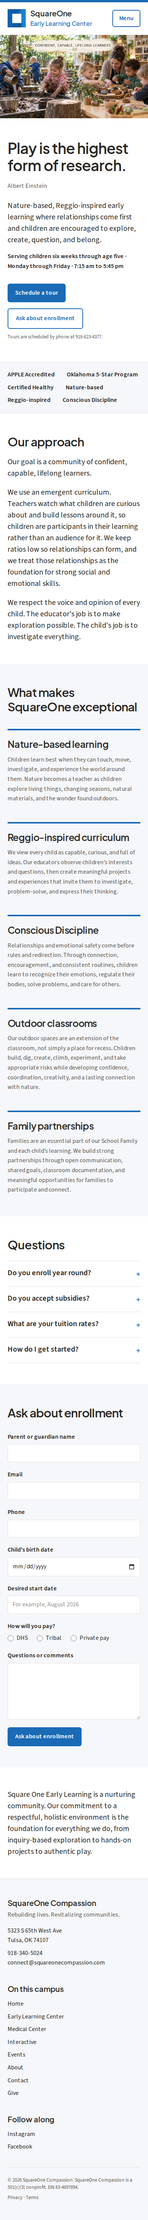
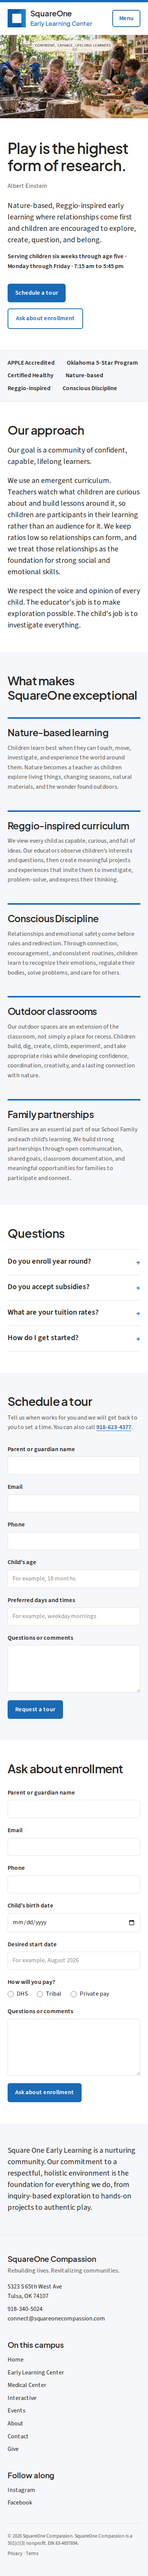
ELC page: Schedule a tour opens a tour request form
The Schedule a tour button now jumps to a form (parent or guardian name,
email, phone, child's age, preferred days and times, questions) instead
of dialing the phone. New elc-tour form kind routed to the ELC inbox,
with migration 0003 widening the kind check. Validation verified on a
production build.

Claude-Session: https://claude.ai/code/session_01Dy1NBE1CDjARVuM4emY1ru

Changed region(s): [[0.0, 0.0, 1.0, 0.9974], [0.5846, 0.6234, 0.6462, 0.6546]]

diff --git a/components/Form/TourForm.tsx b/components/Form/TourForm.tsx
@@ -1,0 +1,75 @@
+'use client'
+
+import { Honeypot } from './Honeypot'
+import { formToObject, useFormSubmit } from './useFormSubmit'
+import { FORM_SUCCESS } from '@/lib/forms'
+
+export function TourForm() {
+  const { state, submit } = useFormSubmit()
+
+  if (state.status === 'success') {
+    return (
+      <p role="status" className="rounded-md bg-accent-soft p-5 text-lg font-semibold text-accent-ink">
+        {FORM_SUCCESS['elc-tour']}
+      </p>
+    )
+  }
+
+  return (
+    <form
+      className="relative max-w-prose space-y-5"
+      onSubmit={(e) => {
+        e.preventDefault()
+        void submit({ kind: 'elc-tour', ...formToObject(e.currentTarget) })
+      }}
+    >
+      <Honeypot />
+      <div className="grid gap-5 sm:grid-cols-2">
+        <div className="sm:col-span-2">
+          <label className="label" htmlFor="t-parent">
+            Parent or guardian name
+          </label>
+          <input className="field" id="t-parent" name="parentName" type="text" required autoComplete="name" />
+        </div>
+        <div>
+          <label className="label" htmlFor="t-email">
+            Email
+          </label>
+          <input className="field" id="t-email" name="email" type="email" required autoComplete="email" />
+        </div>
+        <div>
+          <label className="label" htmlFor="t-phone">
+            Phone
+          </label>
+          <input className="field" id="t-phone" name="phone" type="tel" required autoComplete="tel" />
+        </div>
+        <div>
+          <label className="label" htmlFor="t-age">
+            Child&apos;s age
+          </label>
+          <input className="field" id="t-age" name="childAge" type="text" placeholder="For example, 18 months" />
+        </div>
+        <div>
+          <label className="label" htmlFor="t-times">
+            Preferred days and times
+          </label>
+          <input className="field" id="t-times" name="preferredTimes" type="text" required placeholder="For example, weekday mornings" />
+        </div>
+      </div>
+      <div>
+        <label className="label" htmlFor="t-comments">
+          Questions or comments
+        </label>
+        <textarea className="field" id="t-comments" name="comments" rows={4} />
+      </div>
+      {state.status === 'error' ? (
+        <p role="alert" className="text-red-700">
+          {state.error}
+        </p>
+      ) : null}
+      <button type="submit" className="btn-primary" disabled={state.status === 'submitting'}>
+        {state.status === 'submitting' ? 'Sending' : 'Request a tour'}
+      </button>
+    </form>
+  )
+}

diff --git a/app/early-learning/page.tsx b/app/early-learning/page.tsx
@@ -2,6 +2,7 @@ import type { Metadata } from 'next'
 import { PageIntro, Section } from '@/components/Section'
 import { FAQ } from '@/components/FAQ'
 import { EnrollmentForm } from '@/components/Form/EnrollmentForm'
+import { TourForm } from '@/components/Form/TourForm'
 import Image from 'next/image'
 import { DIVISIONS, telHref } from '@/lib/site'
 import { photo } from '@/lib/photos'
@@ -27,14 +28,13 @@ export default function EarlyLearningPage() {
         <p className="mt-6 text-ink">Nature-based, Reggio-inspired early learning where relationships come first and children are encouraged to explore, create, question, and belong.</p>
         <p className="mt-4 text-base font-semibold text-ink">Serving children six weeks through age five · Monday through Friday · 7:15 am to 5:45 pm</p>
         <div className="mt-8 flex flex-wrap gap-4">
-          <a href={telHref(DIVISIONS.elc.phone2!)} className="btn-primary">
+          <a href="#tour" className="btn-primary">
             Schedule a tour
           </a>
           <a href="#enroll" className="btn-secondary">
             Ask about enrollment
           </a>
         </div>
-        <p className="mt-3 text-sm text-muted">Tours are scheduled by phone at {DIVISIONS.elc.phone2}.</p>
       </PageIntro>
 
       <div className="mt-section-sm border-y border-line bg-tint md:mt-section">
@@ -78,14 +78,24 @@ export default function EarlyLearningPage() {
         <FAQ items={faq} />
       </Section>
 
-      <Section tint id="enroll">
+      <Section tint id="tour">
+        <h2 className="text-2xl">Schedule a tour</h2>
+        <p className="prose-block mt-3 text-muted">
+          Tell us when works for you and we will get back to you to set a time. You can also call <a href={telHref(DIVISIONS.elc.phone2!)} className="link">{DIVISIONS.elc.phone2}</a>.
+        </p>
+        <div className="mt-8">
+          <TourForm />
+        </div>
+      </Section>
+
+      <Section id="enroll">
         <h2 className="text-2xl">Ask about enrollment</h2>
         <div className="mt-8">
           <EnrollmentForm />
         </div>
       </Section>
 
-      <Section>
+      <Section tint>
         <p className="prose-block text-lg">
           Square One Early Learning is a nurturing community. Our commitment to a respectful, holistic environment is the foundation for everything we do, from inquiry-based exploration to hands-on projects to authentic play.
         </p>

diff --git a/lib/forms.ts b/lib/forms.ts
@@ -28,18 +28,32 @@ export const elcEnrollmentSchema = z.object({
   comments: optionalText(5000),
 })
 
-export const formSchema = z.discriminatedUnion('kind', [contactSchema, elcEnrollmentSchema])
+// Tour request, from the Schedule a tour button on the ELC page.
+export const elcTourSchema = z.object({
+  kind: z.literal('elc-tour'),
+  website: z.string().max(0).optional().or(z.literal('')), // honeypot
+  parentName: z.string().trim().min(1).max(120),
+  email,
+  phone: phone.min(7),
+  childAge: optionalText(60),
+  preferredTimes: z.string().trim().min(1).max(300),
+  comments: optionalText(5000),
+})
+
+export const formSchema = z.discriminatedUnion('kind', [contactSchema, elcEnrollmentSchema, elcTourSchema])
 export type FormPayload = z.infer<typeof formSchema>
 export type FormKind = FormPayload['kind']
 
 export const FORM_ROUTING: Record<FormKind, string> = {
   contact: 'connect@squareonecompassion.com',
   'elc-enrollment': 'connect@squareoneelc.com',
+  'elc-tour': 'connect@squareoneelc.com',
 }
 
 export const FORM_SUCCESS: Record<FormKind, string> = {
   contact: "Message sent. We'll reply within one business day.",
   'elc-enrollment': "Thanks. We'll reach out within two business days to schedule a tour.",
+  'elc-tour': "Thanks. We'll reach out within two business days to set up your tour.",
 }
 
 /** Plain-text rendering of a submission for the notification email. */

diff --git a/app/api/forms/route.ts b/app/api/forms/route.ts
@@ -25,7 +25,7 @@ export async function POST(req: Request) {
   const { website: _honeypot, kind, ...payload } = parsed.data
   void _honeypot
   const who = parsed.data.kind === 'contact' ? parsed.data.name : parsed.data.parentName
-  const subject = kind === 'contact' ? `Website contact from ${who}` : `ELC enrollment interest from ${who}`
+  const subject = kind === 'contact' ? `Website contact from ${who}` : kind === 'elc-tour' ? `ELC tour request from ${who}` : `ELC enrollment interest from ${who}`
 
   const db = supabaseAdmin()
   if (!db) {

diff --git a/content/COPY.md b/content/COPY.md
@@ -142,7 +142,7 @@ We use an emergent curriculum. Teachers watch what children are curious about an
 We respect the voice and opinion of every child. The educator's job is to make exploration possible. The child's job is to investigate everything.
 
 **Buttons (top of page):**
-- Schedule a tour (calls 918-623-4377)
+- Schedule a tour (opens the tour request form on this page)
 - Ask about enrollment (opens the enrollment interest form on this page)
 - (No summer program is offered; the old "virtual-learning-after-school" button is dropped.)
 
@@ -178,6 +178,9 @@ Yes. We accept DHS and tribal childcare reimbursement, and we offer a tuition as
 
 *How do I get started?*
 Fill out the enrollment interest form below or call 918-623-4377 to schedule a tour.
+
+**Tour request form fields:** parent or guardian name, email, phone, child's age, preferred days and times, questions or comments. Intro: Tell us when works for you and we will get back to you to set a time. You can also call 918-623-4377.
+**Tour form success:** Thanks. We'll reach out within two business days to set up your tour.
 
 **Enrollment interest form fields** (shortened per the ELC director): parent or guardian name, email, phone, child's birth date, desired start date, how will you pay (DHS, Tribal, or private pay), questions or comments.
 **Form success:** Thanks. We'll reach out within two business days to schedule a tour.

diff --git a/CONFIRM.md b/CONFIRM.md
@@ -18,7 +18,7 @@ The build environment could not reach squareonecompassion.com (network policy), 
 
 ### Environment variables (Vercel > Settings > Environment Variables)
 See `.env.example`. Without these:
-- `SUPABASE_URL` + `SUPABASE_SERVICE_ROLE_KEY`: contact and enrollment forms return a "not available" error. Run `supabase/migrations/0001_forms.sql` and `0002_donations.sql` in that project first.
+- `SUPABASE_URL` + `SUPABASE_SERVICE_ROLE_KEY`: contact and enrollment forms return a "not available" error. Run `supabase/migrations/0001_forms.sql`, `0002_donations.sql`, and `0003_elc_tour.sql` in that project first.
 - `RESEND_API_KEY` + `RESEND_FROM`: submissions are stored but no notification email is sent.
 - `INTERACTIVE_SUPABASE_URL` + `INTERACTIVE_SUPABASE_ANON_KEY`: "What's on the floor" and the Events room list are hidden and only the four static tiles show. RLS in the app already allows anon reads of active facilities and packages, so no policy change is needed.
 - `STRIPE_SECRET_KEY` + `STRIPE_WEBHOOK_SECRET`: without them, `/give` shows the PayPal button (live) instead of the Stripe form. PayPal gifts are not recorded in this site's database and get PayPal's receipt rather than ours. Webhook endpoint: `/api/stripe/webhook`, event `checkout.session.completed`.

diff --git a/CLAUDE.md b/CLAUDE.md
@@ -115,7 +115,7 @@ Nav (same on every page): Early Learning · Medical · Interactive · Events · 
 
 ## Forms
 
-Two forms: contact and ELC enrollment interest. Event requests are not a form here; the Interactive app's booking flow handles them. Both POST to `/api/forms` with a `kind` field.
+Three forms: contact, ELC enrollment interest, and ELC tour request. Event requests are not a form here; the Interactive app's booking flow handles them. Both POST to `/api/forms` with a `kind` field.
 
 - Honeypot field named `website`, hidden via CSS; reject if filled
 - Server validates with zod, inserts into `form_submissions`, sends Resend email to the routing address below, returns 200
@@ -125,6 +125,7 @@ Two forms: contact and ELC enrollment interest. Event requests are not a form he
 Routing:
 - contact → connect@squareonecompassion.com
 - elc-enrollment → connect@squareoneelc.com
+- elc-tour → connect@squareoneelc.com (migration 0003 adds the kind)
 
 ```sql
 -- supabase/migrations/0001_forms.sql
